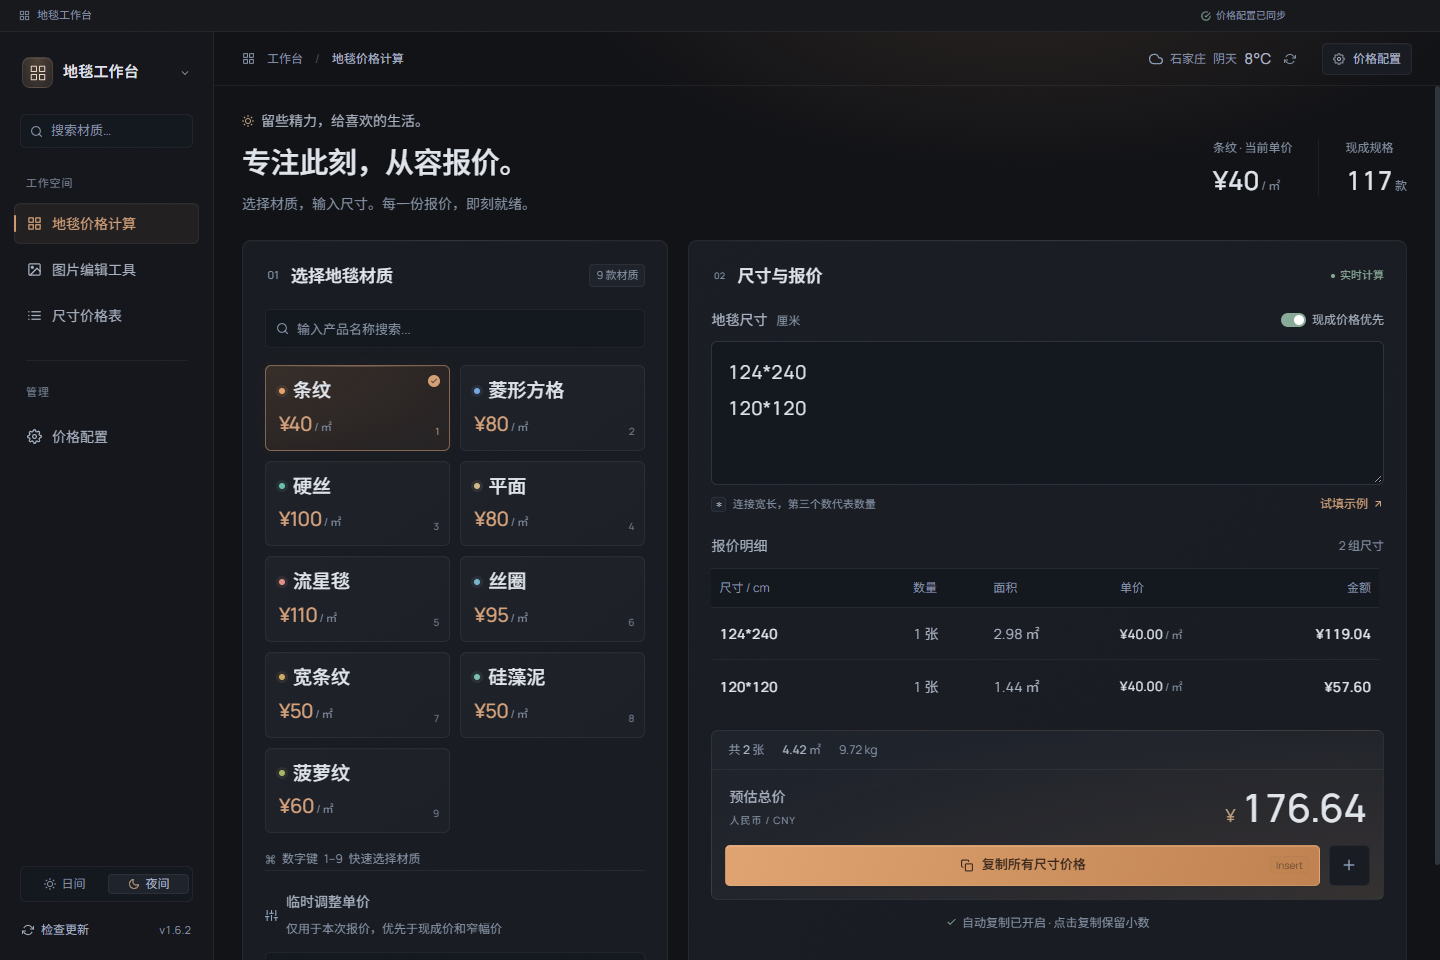
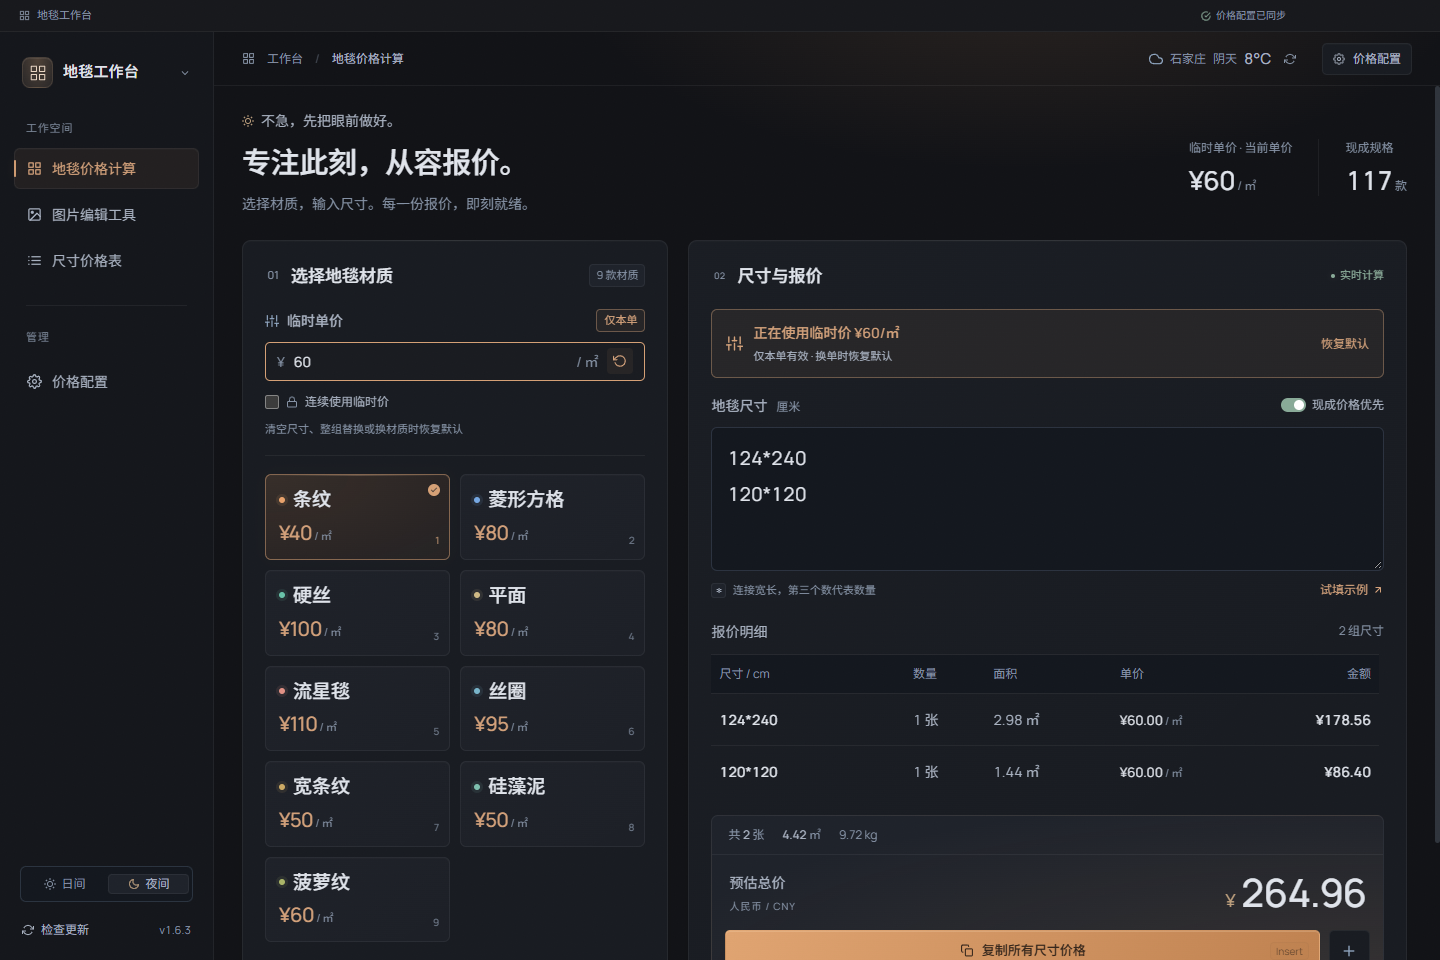
临时单价移至材质顶部，默认换单自动恢复价格（v1.6.3）

diff --git a/frontend/src/App.jsx b/frontend/src/App.jsx
@@ -1,5 +1,5 @@
 import React, { lazy, Suspense, useCallback, useEffect, useState } from 'react';
-import { FiGrid, FiImage, FiList, FiSettings, FiArrowUpRight, FiCheckCircle, FiSearch, FiMoon, FiSun, FiChevronDown } from 'react-icons/fi';
+import { FiGrid, FiImage, FiList, FiSettings, FiArrowUpRight, FiCheckCircle, FiMoon, FiSun, FiChevronDown } from 'react-icons/fi';
 import defaults from '../../config/prices.json';
 import { normalizePrices } from '../../config/normalize-prices.mjs';
 import MaterialPicker from './components/MaterialPicker';
@@ -33,12 +33,21 @@ function Workspace() {
     setOpenedPages(current => current.has(id) ? current : new Set([...current, id]));
     setPageId(id);
   }, []);
-  const [globalSearch, setGlobalSearch] = useState('');
   const workspaceScroll = React.useRef(null);
   useEffect(() => { workspaceScroll.current?.scrollTo({ top: 0 }); }, [pageId]);
   const [snapshot, setSnapshot] = useState({ config: defaults, path: '', error: null });
   const [selectedId, setSelectedId] = useState('1');
   const [customPrice, setCustomPrice] = useState(0);
+  const [keepCustomPrice, setKeepCustomPrice] = useState(false);
+  const resetCustomPrice = useCallback(() => { setCustomPrice(0); setKeepCustomPrice(false); }, []);
+  const changeCustomPrice = useCallback(price => {
+    setCustomPrice(price);
+    if (!price) setKeepCustomPrice(false);
+  }, []);
+  const selectMaterial = useCallback(product => {
+    if (product['编号'] !== selectedId && !keepCustomPrice) setCustomPrice(0);
+    setSelectedId(product['编号']);
+  }, [selectedId, keepCustomPrice]);
   const [readyMade, setReadyMade] = useState(defaults['现成价格优先']);
   const config = snapshot.config;
   const page = pages.find(p => p.id === pageId);
@@ -54,12 +63,11 @@ function Workspace() {
       const product = config['产品'].find(item => item['编号'] === materialId && item['支持定制']);
       if (!product) return;
       event.preventDefault();
-      setSelectedId(product['编号']);
-      setGlobalSearch('');
+      selectMaterial(product);
     };
     window.addEventListener('keydown', onMaterialKey);
     return () => window.removeEventListener('keydown', onMaterialKey);
-  }, [pageId, config]);
+  }, [pageId, config, selectMaterial]);
   const reload = useCallback(async () => {
     try {
       const next = window.desktop?.getPrices ? await window.desktop.getPrices() : (() => {
@@ -85,7 +93,6 @@ function Workspace() {
     <div className="studio-shell">
     <aside className="studio-sidebar">
       <div className="topbar-brand"><span className="brand-symbol"><FiGrid /></span><strong>地毯工作台</strong><FiChevronDown /></div>
-      <label className="global-search"><FiSearch /><input aria-label="全局搜索材质" placeholder="搜索材质…" value={globalSearch} onChange={e => { setGlobalSearch(e.target.value); navigate('calculator'); }} /></label>
       <span className="sidebar-label">工作空间</span>
       <nav aria-label="工作台导航">{pages.map(p => <React.Fragment key={p.id}>{p.id === 'settings' && <><div className="rail-divider" /><span className="sidebar-label">管理</span></>}<button aria-label={p.label} aria-current={pageId === p.id ? 'page' : undefined} title={p.label} className={`nav-item ${pageId === p.id ? 'active' : ''}`} onClick={() => navigate(p.id)}><p.icon /><span>{p.label}</span></button></React.Fragment>)}</nav>
       <div className="rail-bottom"><button className="rail-mode" aria-label={theme === 'dark' ? '切换到日间主题' : '切换到夜间主题'} title={theme === 'dark' ? '切换到日间主题' : '切换到夜间主题'} aria-pressed={theme === 'light'} onClick={() => setTheme(current => current === 'dark' ? 'light' : 'dark')}><span className={theme === 'light' ? 'selected' : ''}><FiSun />日间</span><span className={theme === 'dark' ? 'selected' : ''}><FiMoon />夜间</span></button><SoftwareUpdates /></div>
@@ -94,7 +101,7 @@ function Workspace() {
     <header className="studio-topbar"><div className="workspace-breadcrumb"><FiGrid /><span>工作台</span><i>/</i><strong>{page.label}</strong></div><div className="topbar-tools"><WorkspaceGreeting /><button className="topbar-config" onClick={() => navigate('settings')}><FiSettings />价格配置</button></div></header>
     <div className="workspace-content" ref={workspaceScroll}><div className="page-heading"><div className="page-heading-copy"><LaunchGreeting /><h1>{page.title}</h1><p>{page.subtitle}</p></div><div className="workspace-stats" hidden={pageId !== 'calculator'}><div className="stat-card balance-card"><div><span>{customPrice ? '临时单价' : selectedProduct?.['名称']} · 当前单价</span><strong>¥{customPrice || selectedProduct?.['单价'] || 0}<small> / ㎡</small></strong></div></div><div className="stat-card"><div><span>现成规格</span><strong>{config['现成尺寸价格'].length}<small> 款</small></strong></div></div></div></div>
     {snapshot.error && pageId !== 'settings' && <div role="alert" className="notice warning">{snapshot.error}<button className="text-button" onClick={() => navigate('settings')}>检查配置 <FiArrowUpRight /></button></div>}
-    <div hidden={pageId !== 'calculator'}><div className="calculator-layout"><MaterialPicker products={config['产品']} selectedProduct={selectedProduct} onSelectProduct={p => setSelectedId(p['编号'])} customPrice={customPrice} onCustomPriceChange={setCustomPrice} searchText={globalSearch} onSearchTextChange={setGlobalSearch} /><QuoteCalculator config={config} selectedProduct={selectedProduct} customPrice={customPrice} readyMade={readyMade} onReadyMadeChange={setReadyMade} /></div></div>
+    <div hidden={pageId !== 'calculator'}><div className="calculator-layout"><MaterialPicker products={config['产品']} selectedProduct={selectedProduct} onSelectProduct={selectMaterial} customPrice={customPrice} onCustomPriceChange={changeCustomPrice} keepCustomPrice={keepCustomPrice} onKeepCustomPriceChange={setKeepCustomPrice} onResetCustomPrice={resetCustomPrice} /><QuoteCalculator config={config} selectedProduct={selectedProduct} customPrice={customPrice} keepCustomPrice={keepCustomPrice} onResetCustomPrice={resetCustomPrice} readyMade={readyMade} onReadyMadeChange={setReadyMade} /></div></div>
     <div hidden={pageId !== 'images'}>{openedPages.has('images') && <Suspense fallback={<div className="studio-card page-loading">正在打开图片工具…</div>}><div className="studio-card studio-image-editor"><ImageEditor /></div></Suspense>}</div>
     <div hidden={pageId !== 'table'}>{openedPages.has('table') && <Suspense fallback={<div className="studio-card page-loading">正在打开价格表…</div>}><PriceTable config={config} /></Suspense>}</div>
     <div hidden={pageId !== 'settings'}>{openedPages.has('settings') && <Suspense fallback={<div className="studio-card page-loading">正在打开价格配置…</div>}><PriceSettings snapshot={snapshot} onReload={reload} onSave={save} /></Suspense>}</div>

diff --git a/frontend/src/components/QuoteCalculator.jsx b/frontend/src/components/QuoteCalculator.jsx
@@ -1,11 +1,34 @@
 import React, { useState, useMemo, useEffect, useCallback, useRef } from 'react';
-import { FiCopy, FiPlus, FiTrash2, FiCheck, FiArrowUpRight, FiLayers } from 'react-icons/fi';
+import { FiCopy, FiPlus, FiTrash2, FiCheck, FiArrowUpRight, FiLayers, FiSliders } from 'react-icons/fi';
 import { calculateQuote, formatQuoteForCopy } from '../utils/pricing';
 import { money } from '../utils/format';
 import QuoteLines from './QuoteLines';
 import SpotlightCard from './react-bits/SpotlightCard';
-export default function QuoteCalculator({ selectedProduct, customPrice, config, readyMade, onReadyMadeChange }) {
+export default function QuoteCalculator({ selectedProduct, customPrice, keepCustomPrice, onResetCustomPrice, config, readyMade, onReadyMadeChange }) {
   const [value, onDimensionsChange] = useState('');
+  const dimensionInput = useRef(null);
+  const replacingAll = useRef(false);
+  useEffect(() => {
+    const input = dimensionInput.current;
+    const beforeInput = event => {
+      replacingAll.current = Boolean(input.value.trim() && input.selectionStart === 0 && input.selectionEnd === input.value.length && !event.inputType.startsWith('history'));
+    };
+    const afterInput = () => {
+      if (customPrice && !keepCustomPrice && replacingAll.current) {
+        onDimensionsChange(input.value);
+        onResetCustomPrice();
+      }
+      replacingAll.current = false;
+    };
+    input.addEventListener('beforeinput', beforeInput);
+    input.addEventListener('input', afterInput);
+    return () => { input.removeEventListener('beforeinput', beforeInput); input.removeEventListener('input', afterInput); };
+  }, [customPrice, keepCustomPrice, onResetCustomPrice]);
+  const changeDimensions = event => {
+    const next = event.target.value;
+    if (customPrice && !keepCustomPrice && !next.trim()) onResetCustomPrice();
+    onDimensionsChange(next);
+  };
   const [squareStyle, setSquareStyle] = useState(false);
   const [basket, setBasket] = useState([]);
   const [copyError, setCopyError] = useState('');
@@ -32,8 +55,9 @@ export default function QuoteCalculator({ selectedProduct, customPrice, config, 
   useEffect(() => { const onKey = e => { if (e.key === 'Insert' && priceText) { e.preventDefault(); void copy(priceText); } }; window.addEventListener('keydown', onKey); return () => window.removeEventListener('keydown', onKey); }, [priceText, copy]);
   return <section className="studio-card quote-card">
     <div className="section-heading"><span className="step-number">02</span><div><h2>尺寸与报价</h2><p>输入尺寸，即时算价并自动复制</p></div><span className="live-indicator"><i />实时计算</span></div>
+    {customPrice > 0 && <div className="custom-price-notice" role="status"><FiSliders aria-hidden="true" /><div><strong>正在使用临时价 ¥{customPrice}/㎡</strong><span>{keepCustomPrice ? '已开启连续使用，换单后仍保留' : '仅本单有效 · 换单时恢复默认'}</span></div><button className="text-button" onClick={onResetCustomPrice}>恢复默认</button></div>}
     <div className="dimension-label"><label htmlFor="dimensions">地毯尺寸 <span>厘米</span></label><label className="toggle-label"><input type="checkbox" checked={readyMade} onChange={e => onReadyMadeChange(e.target.checked)} /><span className="toggle-track" />现成价格优先</label></div>
-    <textarea id="dimensions" className="dimension-input" value={value} onChange={e => onDimensionsChange(e.target.value)} placeholder={'每行一个尺寸：宽*长 或 宽*长*数量\n例如：120*150\n90*200*3'} spellCheck={false} />
+    <textarea ref={dimensionInput} id="dimensions" className="dimension-input" value={value} onChange={changeDimensions} placeholder={'每行一个尺寸：宽*长 或 宽*长*数量\n例如：120*150\n90*200*3'} spellCheck={false} />
     <div className="dimension-help"><span><kbd>*</kbd> 连接宽长，第三个数代表数量</span><button className="text-button" onClick={() => onDimensionsChange(value ? `${value}\n120*150` : '120*150')}>试填示例 <FiArrowUpRight /></button></div>
     {quote.rows.some(r => r.splicing) && <div className="notice warning">{selectedProduct?.['名称']}最大宽度 {selectedProduct?.['最大宽度'] || 200} 厘米，超宽尺寸需要拼接。</div>}
     {typeof selectedProduct?.['单位重量'] === 'object' && <label className="weight-option"><input type="checkbox" checked={squareStyle} onChange={e => setSquareStyle(e.target.checked)} />使用方格款式重量（{selectedProduct['单位重量']['方格款式']} kg / ㎡）</label>}

diff --git a/frontend/src/components/MaterialPicker.jsx b/frontend/src/components/MaterialPicker.jsx
@@ -1,21 +1,21 @@
-import React, { useState } from 'react';
-import { FiSearch, FiCheck, FiSliders, FiCommand } from 'react-icons/fi';
+import React from 'react';
+import { FiCheck, FiSliders, FiCommand, FiRotateCcw, FiLock } from 'react-icons/fi';
 import { featuredIds } from '../utils/catalog';
-export default function MaterialPicker({ products, onSelectProduct, selectedProduct, customPrice, onCustomPriceChange, searchText, onSearchTextChange }) {
-  const [localSearch, setLocalSearch] = useState('');
-  const search = searchText ?? localSearch;
-  const setSearch = onSearchTextChange || setLocalSearch;
-  const displayed = search.trim() ? products.filter(p => `${p['名称']} ${p['编号']} ${p['描述'] || ''}`.includes(search.trim())) : featuredIds.map(id => products.find(p => p['编号'] === id)).filter(Boolean);
+export default function MaterialPicker({ products, onSelectProduct, selectedProduct, customPrice, onCustomPriceChange, keepCustomPrice, onKeepCustomPriceChange, onResetCustomPrice }) {
+  const displayed = featuredIds.map(id => products.find(p => p['编号'] === id)).filter(Boolean);
   return <section className="studio-card material-card">
     <div className="section-heading"><span className="step-number">01</span><div><h2>选择地毯材质</h2></div><span className="small-label">{products.length} 款材质</span></div>
-    <label className="search-field"><FiSearch /><input placeholder="输入产品名称搜索..." aria-label="搜索地毯材质" value={search} onChange={e => setSearch(e.target.value)} /></label>
+    <div className={`custom-price ${customPrice ? 'is-active' : ''}`}>
+      <div className="custom-price-heading"><label htmlFor="custom-unit-price"><FiSliders aria-hidden="true" />临时单价</label><span>{keepCustomPrice ? '连续使用' : '仅本单'}</span></div>
+      <div className="price-input"><span>¥</span><input id="custom-unit-price" type="number" min="0" max="1000000" step="0.01" placeholder="使用默认价" aria-label="输入自定义单价 (元/㎡)" aria-describedby="custom-price-hint" value={customPrice || ''} onChange={e => { const n = Number(e.target.value); if (Number.isFinite(n) && n >= 0 && n <= 1000000) onCustomPriceChange(n); }} /><span>/ ㎡</span>{customPrice > 0 && <button className="price-reset" aria-label="恢复默认单价" title="恢复默认单价" onClick={onResetCustomPrice}><FiRotateCcw /></button>}</div>
+      <label className="custom-price-lock"><input type="checkbox" checked={keepCustomPrice} onChange={e => onKeepCustomPriceChange(e.target.checked)} /><FiLock aria-hidden="true" />连续使用临时价</label>
+      <p id="custom-price-hint">{keepCustomPrice ? '跨报价保留；关闭后仅用于本单' : '清空尺寸、整组替换或换材质时恢复默认'}</p>
+    </div>
     <div className="material-grid">{displayed.map(p => <button key={p['编号']} data-material={p['编号']} className={`material-tile ${selectedProduct?.['编号'] === p['编号'] ? 'selected' : ''}`} onClick={() => onSelectProduct(p)} disabled={!p['支持定制']} aria-label={p['名称']} aria-pressed={selectedProduct?.['编号'] === p['编号']} aria-keyshortcuts={p['编号']} title={`${p['名称']} · 快捷键 ${p['编号']}`}>
       {selectedProduct?.['编号'] === p['编号'] && <span className="material-check"><FiCheck /></span>}
       <div className="material-info"><strong>{p['名称']}</strong><span>{p['支持定制'] ? <><b>¥{p['单价']}</b><small> / ㎡</small></> : '不支持定制'}</span></div>
       <kbd className="material-shortcut" aria-hidden="true">{p['编号']}</kbd>
     </button>)}</div>
     <p className="material-keyboard-hint"><FiCommand />数字键 <kbd>1–9</kbd> 快速选择材质</p>
-    {!displayed.length && <div className="inline-empty">没有找到这款材质，换个关键词试试。</div>}
-    <div className="custom-price"><div className="custom-price-label"><FiSliders /><div><strong>临时调整单价</strong><p>仅用于本次报价，优先于现成价和窄幅价</p></div></div><div className="price-input"><span>¥</span><input type="number" min="0" max="1000000" step="0.01" placeholder="使用默认价" aria-label="输入自定义单价 (元/㎡)" value={customPrice || ''} onChange={e => { const n = Number(e.target.value); if (Number.isFinite(n) && n >= 0 && n <= 1000000) onCustomPriceChange(n); }} /><span>/ ㎡</span></div></div>
   </section>;
 }

diff --git a/frontend/src/styles/linear-refinements.css b/frontend/src/styles/linear-refinements.css
@@ -21,6 +21,22 @@
 .material-shortcut,.material-tile.selected .material-shortcut{top:auto;right:10px;bottom:11px;opacity:.75}
 .material-check{top:9px;right:9px}
 .material-keyboard-hint,.material-keyboard-hint kbd{font-size:12px}.custom-price-label strong{font-size:14px}.custom-price-label p{font-size:12px}.price-input,.price-input input{font-size:14px}.price-input>span:last-child{font-size:12px}.price-input{height:39px}
+.topbar-brand+.sidebar-label{margin-top:32px}
+.material-card>.custom-price{margin:0 0 18px;padding:0 0 17px;border-top:0;border-bottom:1px solid var(--line)}
+.custom-price-heading{display:flex;align-items:center;justify-content:space-between;gap:10px;margin-bottom:10px}
+.custom-price-heading>label{display:flex;align-items:center;gap:8px;color:var(--secondary);font-size:14px;font-weight:500}
+.custom-price-heading svg{width:14px;color:var(--blue)}
+.custom-price-heading>span{font-size:11px;color:var(--muted);border:1px solid var(--line);border-radius:4px;padding:2px 7px;background:var(--field)}
+.custom-price.is-active .price-input{border-color:var(--accent);background:color-mix(in srgb,var(--active-bg),var(--field) 70%)}
+.custom-price.is-active .custom-price-heading>span{color:var(--accent-ink);background:var(--active-bg);border-color:color-mix(in srgb,var(--accent) 35%,var(--line))}
+.custom-price-lock{display:flex;align-items:center;gap:7px;min-height:30px;margin-top:6px;font-size:12px;color:var(--secondary);cursor:pointer}
+.custom-price-lock input{width:14px;height:14px;margin:0}.custom-price-lock svg{height:12px;width:12px;color:var(--muted)}
+.custom-price>p{margin:3px 0 0;color:var(--muted);font-size:11px;line-height:1.7}
+.price-input>span{white-space:nowrap}.price-reset{display:grid;place-items:center;flex-shrink:0;width:26px;height:26px;padding:0;border:0;border-radius:4px;background:var(--active-bg);color:var(--accent-ink)}.price-reset:hover{background:var(--panel-raised)}
+.custom-price-notice{display:flex;align-items:center;gap:10px;padding:12px 14px;margin-bottom:17px;border:1px solid color-mix(in srgb,var(--accent) 35%,var(--line));border-radius:6px;background:var(--active-bg)}
+.custom-price-notice>svg{flex-shrink:0;width:17px;height:17px;color:var(--accent-ink)}.custom-price-notice>div{flex:1;min-width:0}
+.custom-price-notice strong{display:block;font-size:14px;font-weight:500;color:var(--accent-ink);overflow-wrap:anywhere}.custom-price-notice span{display:block;margin-top:4px;font-size:11px;line-height:1.6;color:var(--secondary)}
+.custom-price-notice .text-button{flex-shrink:0;color:var(--accent-ink)}
 .dimension-label>label:first-child{font-size:14px}.dimension-label>label>span,.toggle-label{font-size:12px}.dimension-input{font-size:19px}.dimension-input::placeholder{font-size:13px}
 .dimension-help{font-size:11px;flex-wrap:wrap;gap:9px}.text-button{font-size:12px}.quote-lines-heading{font-size:14px}.quote-lines-heading>span:last-child{font-size:12px}
 .quote-lines th{font-size:12px}.quote-lines td{font-size:14px}.quote-lines .quote-unit-price{font-size:13px}.quote-unit-price small{font-size:11px}
